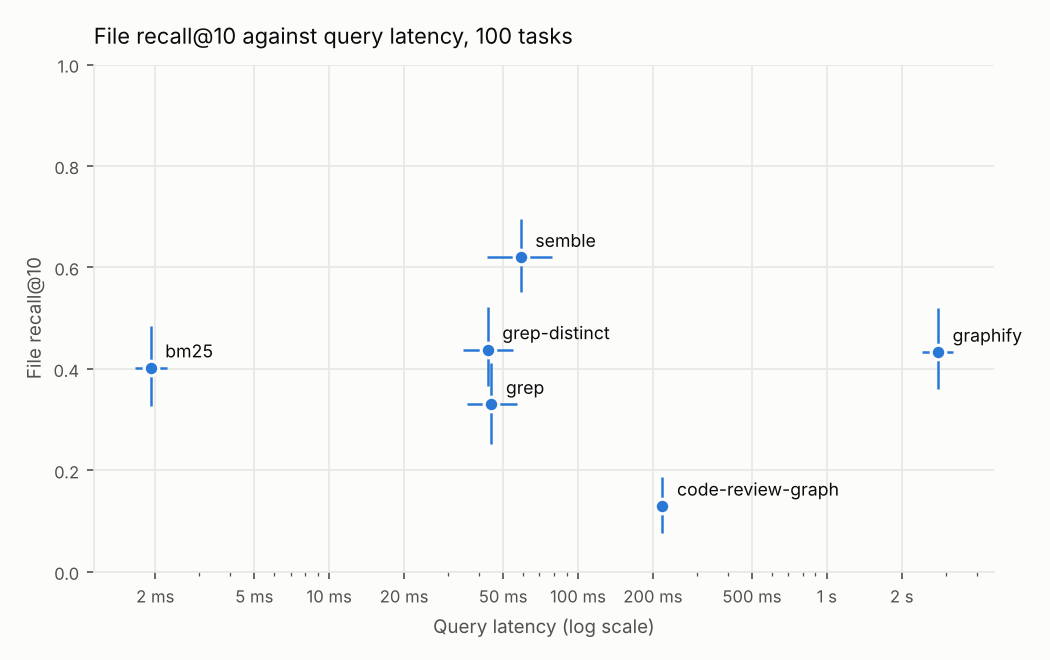
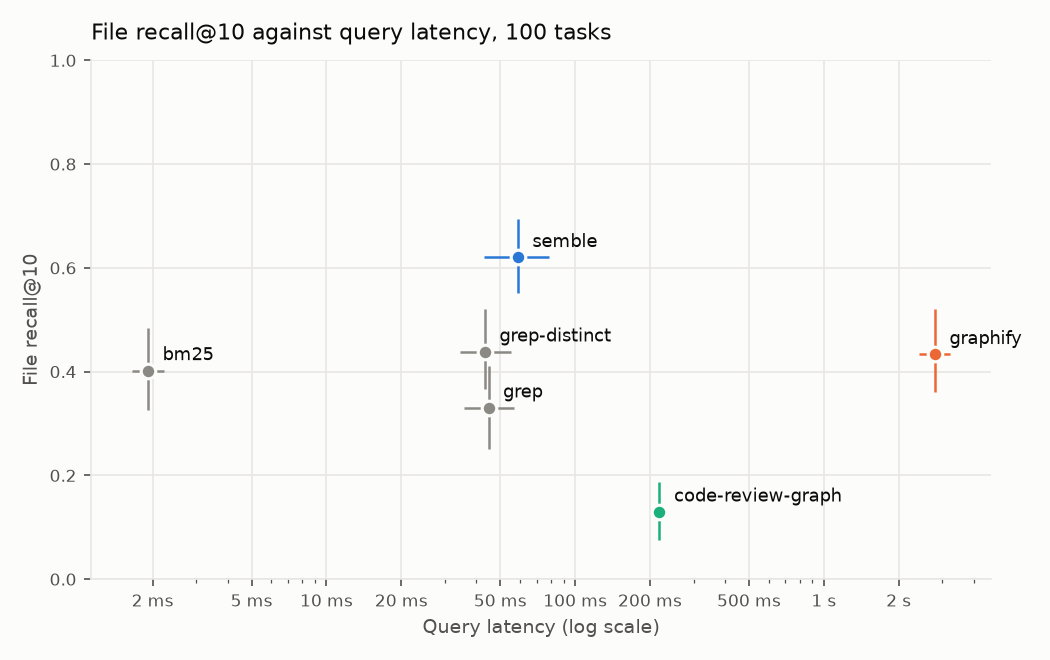
feat(plots): color tools consistently and add three overview charts

diff --git a/src/csbench/plots.py b/src/csbench/plots.py
@@ -1,9 +1,13 @@
-"""Trade-off plots for the README: file recall@10 against tokens returned and query latency.
+"""Plots for the README.
 
-One point per tool with 95% bootstrap CIs on both axes. Every tool shares one color and is
-named by a direct label, so identity never depends on color. Light and dark variants are
-written for the README's ``<picture>`` element. Colors follow the reference palette of the
-data-viz method used here (series-1 blue, validated against both surfaces).
+Per run: file recall@10 against tokens returned and against query latency (one point per
+tool with 95% bootstrap CIs on both axes), and file recall@10 next to line recall at 8,000
+tokens. Across runs (``write_overview``): the v1 sample against the hard split, and Track B
+accuracy next to session cost. Every tool or arm is named by a label, so identity never
+depends on color alone. Light and dark variants are written for the README's ``<picture>``
+element. Colors follow the reference palette of the data-viz method used here: one fixed
+color per tool under test (blue semble, orange graphify, aqua code-review-graph, validated as
+a set against both surfaces) and gray for the baselines.
 """
 
 from __future__ import annotations
@@ -16,14 +20,16 @@ THEMES = {
         "text": "#0b0b0b",
         "muted": "#52514e",
         "grid": "#e8e7e3",
-        "series": "#2a78d6",
+        "baseline": "#8a8984",
+        "tools": {"semble": "#2a78d6", "graphify": "#eb6834", "code-review-graph": "#1baf7a"},
     },
     "dark": {
         "surface": "#1a1a19",
         "text": "#f0efec",
         "muted": "#c3c2b7",
         "grid": "#2e2e2c",
-        "series": "#3987e5",
+        "baseline": "#8a8984",
+        "tools": {"semble": "#3987e5", "graphify": "#d95926", "code-review-graph": "#199e70"},
     },
 }
 PLOTS = {
@@ -41,6 +47,14 @@ def fmt_seconds(v: float, _pos=None) -> str:
 
 
 Y = "file_recall@10"
+
+
+def color(theme: dict, name: str) -> str:
+    """One fixed color per tool under test in every chart; baselines and other names in gray.
+
+    Track B arm names match the tool names, so "baseline" (the agent alone) is gray too.
+    """
+    return theme["tools"].get(name, theme["baseline"])
 
 
 def _plot(rows: list[dict], x_key: str, x_label: str, title: str, theme: dict, path: Path):
@@ -62,8 +76,8 @@ def _plot(rows: list[dict], x_key: str, x_label: str, title: str, theme: dict, p
             yerr=[[y - r[f"{Y}_lo"]], [r[f"{Y}_hi"] - y]],
             fmt="o",
             ms=7,
-            color=theme["series"],
-            ecolor=theme["series"],
+            color=color(theme, r["tool"]),
+            ecolor=color(theme, r["tool"]),
             elinewidth=1.2,
             capsize=0,
             markeredgecolor=theme["surface"],
@@ -112,4 +126,219 @@ def write(rows: list[dict], n_tasks: int, out_dir: Path) -> list[Path]:
             path = out_dir / f"{name}_{mode}.png"
             _plot(rows, x_key, x_label, title, theme, path)
             paths.append(path)
+    for mode, theme in THEMES.items():
+        path = out_dir / f"files_vs_lines_{mode}.png"
+        _files_vs_lines(rows, n_tasks, theme, path)
+        paths.append(path)
+    return paths
+
+
+# Runs compared by write_overview; it skips any whose committed results are missing.
+OVERVIEW_RUNS = ("v1", "hard")
+TRACKB_RUN = "trackb-haiku"
+TRACKB_PANELS = (
+    ("file_recall@10", "File recall@10", "{:.2f}"),
+    ("duration_s", "Time per session", "{:.0f} s"),
+    ("total_tokens", "Tokens per session", None),
+)
+
+
+def _pyplot():
+    import matplotlib
+
+    matplotlib.use("Agg")
+    import matplotlib.pyplot as plt
+
+    return plt
+
+
+def _style(ax, theme: dict, grid_axis: str = "x") -> None:
+    ax.set_facecolor(theme["surface"])
+    ax.grid(True, axis=grid_axis, color=theme["grid"], linewidth=0.8, linestyle="-")
+    ax.set_axisbelow(True)
+    for side in ("top", "right"):
+        ax.spines[side].set_visible(False)
+    for side in ("left", "bottom"):
+        ax.spines[side].set_color(theme["grid"])
+    ax.tick_params(colors=theme["muted"], labelsize=8, which="both", length=0)
+
+
+def _save(fig, theme: dict, path: Path) -> None:
+    import matplotlib.pyplot as plt
+
+    fig.patch.set_facecolor(theme["surface"])
+    path.parent.mkdir(parents=True, exist_ok=True)
+    fig.savefig(path, facecolor=theme["surface"], metadata={"Software": None})
+    plt.close(fig)
+
+
+def _hbars(ax, labels, means, lows, highs, theme: dict, fmt, colors=None, missing="n/a") -> None:
+    """Thin horizontal bars from zero with a CI whisker and the value past the whisker.
+
+    Each bar takes its label's color (see ``color``); the label names it, so identity never
+    rests on color alone.
+    """
+    span = max([h for h in highs if h is not None] or [1.0])
+    colors = colors or [color(theme, label) for label in labels]
+    for i, (m, lo, hi) in enumerate(zip(means, lows, highs, strict=True)):
+        if m is None:
+            ax.text(span * 0.01, i, missing, va="center", fontsize=8, color=theme["muted"])
+            continue
+        ax.barh(i, m, height=0.38, color=colors[i], zorder=2)
+        end = m
+        if lo is not None and hi is not None:
+            ax.plot([lo, hi], [i, i], color=theme["muted"], linewidth=1.1, zorder=3)
+            end = hi
+        ax.text(end + span * 0.02, i, fmt(m), va="center", fontsize=8, color=theme["text"])
+    ax.set_yticks(range(len(labels)), labels, color=theme["text"], fontsize=8.5)
+    ax.set_ylim(len(labels) - 0.5, -0.5)
+
+
+def _files_vs_lines(rows: list[dict], n_tasks: int, theme: dict, path: Path) -> None:
+    plt = _pyplot()
+    rows = sorted(rows, key=lambda r: -(r.get(f"{Y}_mean") or 0))
+    labels = [r["tool"] for r in rows]
+    fig, axes = plt.subplots(1, 2, figsize=(8, 0.42 * len(rows) + 1.5), dpi=150, sharey=True)
+    panels = (
+        (Y, "Needed files in the top 10 results"),
+        ("line_recall@8000tok", "Needed lines within 8,000 tokens"),
+    )
+    for ax, (key, label) in zip(axes, panels, strict=True):
+        _style(ax, theme)
+        get = [r.get(f"{key}_{s}") for s in ("mean", "lo", "hi") for r in rows]
+        n = len(rows)
+        _hbars(ax, labels, get[:n], get[n : 2 * n], get[2 * n :], theme, "{:.2f}".format)
+        ax.set_xlim(0, 1)
+        ax.set_title(label, color=theme["text"], fontsize=9, loc="left")
+    axes[1].tick_params(axis="y", length=0)
+    fig.suptitle(
+        f"Finding the files against finding the lines, {n_tasks} tasks (95% CIs)",
+        color=theme["text"],
+        fontsize=10.5,
+        x=0.02,
+        ha="left",
+    )
+    fig.tight_layout()
+    _save(fig, theme, path)
+
+
+def _v1_vs_hard(runs: dict[str, list[dict]], theme: dict, path: Path) -> None:
+    plt = _pyplot()
+    (a_name, a_rows), (b_name, b_rows) = runs.items()
+    b_by = {r["tool"]: r for r in b_rows}
+    rows = sorted((r for r in a_rows if r["tool"] in b_by), key=lambda r: -r[f"{Y}_mean"])
+    fig, ax = plt.subplots(figsize=(7, 0.42 * len(rows) + 1.6), dpi=150)
+    _style(ax, theme)
+    for i, r in enumerate(rows):
+        a, b = r[f"{Y}_mean"], b_by[r["tool"]][f"{Y}_mean"]
+        c = color(theme, r["tool"])
+        ax.plot([b, a], [i, i], color=theme["grid"], linewidth=2, zorder=2)
+        ax.plot(b, i, "o", ms=8, mfc=theme["surface"], mec=c, mew=2, zorder=3)
+        ax.plot(a, i, "o", ms=8, color=c, mec=theme["surface"], mew=1.5, zorder=3)
+    ax.set_yticks(range(len(rows)), [r["tool"] for r in rows], color=theme["text"], fontsize=8.5)
+    ax.set_ylim(len(rows) - 0.5, -0.5)
+    ax.set_xlim(0, 1)
+    ax.set_xlabel("File recall@10", color=theme["muted"], fontsize=9)
+    n_a, n_b = int(a_rows[0]["n_tasks"]), int(b_rows[0]["n_tasks"])
+    key = theme["muted"]
+    handles = [
+        plt.Line2D([], [], marker="o", ls="", ms=8, color=key, mec=theme["surface"]),
+        plt.Line2D([], [], marker="o", ls="", ms=8, mfc=theme["surface"], mec=key, mew=2),
+    ]
+    ax.legend(
+        handles,
+        [f"{a_name}: {n_a} Python tasks", f"{b_name}: {n_b} tasks in large projects"],
+        loc="lower right",
+        frameon=False,
+        fontsize=8,
+        labelcolor=theme["text"],
+    )
+    ax.set_title(
+        "File recall@10 on the v1 sample and on the hard split of large projects",
+        color=theme["text"],
+        fontsize=10.5,
+        loc="left",
+        pad=10,
+    )
+    fig.tight_layout()
+    _save(fig, theme, path)
+
+
+def _arm_label(arm: str) -> str:
+    return "Agent alone" if arm == "baseline" else f"Agent + {arm}"
+
+
+def _trackb(records: list[dict], theme: dict, path: Path) -> None:
+    import numpy as np
+
+    from csbench.metrics import bootstrap_ci
+
+    plt = _pyplot()
+    by: dict[str, dict[str, dict]] = {}
+    for r in records:
+        if r.get("ok", True):
+            by.setdefault(r["arm"], {})[r["task_id"]] = r
+    arms = list(by)
+    common = sorted(set.intersection(*(set(v) for v in by.values())))
+    fig, axes = plt.subplots(1, 3, figsize=(9, 0.5 * len(arms) + 1.5), dpi=150, sharey=True)
+    for ax, (key, label, spec) in zip(axes, TRACKB_PANELS, strict=True):
+        _style(ax, theme)
+        stats = [bootstrap_ci(np.array([by[a][t][key] for t in common], float)) for a in arms]
+        means, lows, highs = (list(x) for x in zip(*stats, strict=True))
+        fmt = spec.format if spec else (lambda v: fmt_tokens(round(v, -3)))
+        labels, colors = [_arm_label(a) for a in arms], [color(theme, a) for a in arms]
+        _hbars(ax, labels, means, lows, highs, theme, fmt, colors)
+        ax.set_xlim(0, 1 if key == Y else max(highs) * 1.3)
+        if key == "total_tokens":
+            from matplotlib.ticker import FuncFormatter
+
+            ax.xaxis.set_major_formatter(FuncFormatter(fmt_tokens))
+        ax.set_title(label, color=theme["text"], fontsize=9, loc="left")
+    fig.suptitle(
+        f"Track B: an agent with each tool, {len(common)} tasks finished in every arm (95% CIs)",
+        color=theme["text"],
+        fontsize=10.5,
+        x=0.02,
+        ha="left",
+    )
+    fig.tight_layout()
+    _save(fig, theme, path)
+
+
+def _read_summary(path: Path) -> list[dict]:
+    import csv
+
+    def num(v: str):
+        try:
+            return float(v)
+        except ValueError:
+            return v or None
+
+    with path.open() as fh:
+        return [{k: num(v) for k, v in row.items()} for row in csv.DictReader(fh)]
+
+
+def write_overview(results: Path) -> list[Path]:
+    """Cross-run plots from committed results, written to ``results/plots/``."""
+    import gzip
+    import json
+
+    out, paths = results / "plots", []
+    runs = {
+        run: _read_summary(results / run / "summary.csv")
+        for run in OVERVIEW_RUNS
+        if (results / run / "summary.csv").exists()
+    }
+    records_path = results / TRACKB_RUN / "records.jsonl.gz"
+    records = []
+    if records_path.exists():
+        with gzip.open(records_path, "rt") as fh:
+            records = [json.loads(line) for line in fh]
+    for mode, theme in THEMES.items():
+        if len(runs) == 2:
+            paths.append(out / f"v1_vs_hard_{mode}.png")
+            _v1_vs_hard(runs, theme, paths[-1])
+        if records:
+            paths.append(out / f"trackb_{mode}.png")
+            _trackb(records, theme, paths[-1])
     return paths

diff --git a/tests/test_plots.py b/tests/test_plots.py
@@ -1,0 +1,56 @@
+import csv
+import gzip
+import json
+
+from csbench import plots
+
+ROW_KEYS = ("file_recall@10", "line_recall@8000tok", "tokens_returned", "query_s")
+
+
+def _row(tool, base, with_lines=True):
+    row = {"tool": tool, "n_tasks": 2}
+    for i, key in enumerate(ROW_KEYS):
+        mean = base / (i + 1) if with_lines or key != "line_recall@8000tok" else None
+        lo = hi = None if mean is None else mean
+        row.update({f"{key}_mean": mean, f"{key}_lo": lo, f"{key}_hi": hi})
+    return row
+
+
+def test_write_adds_files_vs_lines(tmp_path):
+    rows = [_row("grep", 0.3), _row("graphify", 0.4, with_lines=False)]
+    names = {p.name for p in plots.write(rows, 2, tmp_path)}
+    assert {"files_vs_lines_light.png", "files_vs_lines_dark.png"} <= names
+    assert all((tmp_path / n).stat().st_size > 0 for n in names)
+
+
+def test_write_overview_uses_committed_results(tmp_path):
+    assert plots.write_overview(tmp_path) == []
+    for run, base in (("v1", 0.6), ("hard", 0.3)):
+        (tmp_path / run).mkdir()
+        rows = [_row("grep", base), _row("semble", base + 0.1)]
+        with (tmp_path / run / "summary.csv").open("w", newline="") as fh:
+            w = csv.DictWriter(fh, fieldnames=list(rows[0]))
+            w.writeheader()
+            w.writerows(rows)
+    (tmp_path / plots.TRACKB_RUN).mkdir()
+    recs = [
+        {
+            "arm": arm,
+            "task_id": t,
+            "ok": True,
+            "file_recall@10": 0.8,
+            "duration_s": 10.0 + i,
+            "total_tokens": 200000.0 + i,
+        }
+        for arm in ("baseline", "semble")
+        for i, t in enumerate(("t1", "t2"))
+    ]
+    data = "".join(json.dumps(r) + "\n" for r in recs).encode()
+    (tmp_path / plots.TRACKB_RUN / "records.jsonl.gz").write_bytes(gzip.compress(data))
+    names = sorted(p.name for p in plots.write_overview(tmp_path))
+    assert names == [
+        "trackb_dark.png",
+        "trackb_light.png",
+        "v1_vs_hard_dark.png",
+        "v1_vs_hard_light.png",
+    ]

diff --git a/src/csbench/cli.py b/src/csbench/cli.py
@@ -81,6 +81,9 @@ def main(argv: list[str] | None = None) -> int:
                 print(json.dumps(trackb.session_request(tcfg, root, task, args.arm)))
         else:
             print(trackb.summarize(tcfg, root, parquet, cfg.path("results") / tcfg["run"]))
+            from csbench import plots
+
+            plots.write_overview(cfg.path("results"))
         return 0
     if args.command == "lock":
         for spec in cfg.tools(args.tools):

diff --git a/src/csbench/report.py b/src/csbench/report.py
@@ -247,6 +247,8 @@ def write(
     _csv(out / f"paired_vs_{cfg['bootstrap']['baseline']}.csv", paired)
     (out / "summary.md").write_text(markdown(cfg, rows, paired, order, records))
     plots.write(rows, len(order), out / "plots")
+    if readme:
+        plots.write_overview(cfg.path("results"))
     if readme and cfg.raw.get("readme_table"):
         update_readme(cfg, headline(cfg, rows, order))
     return out
